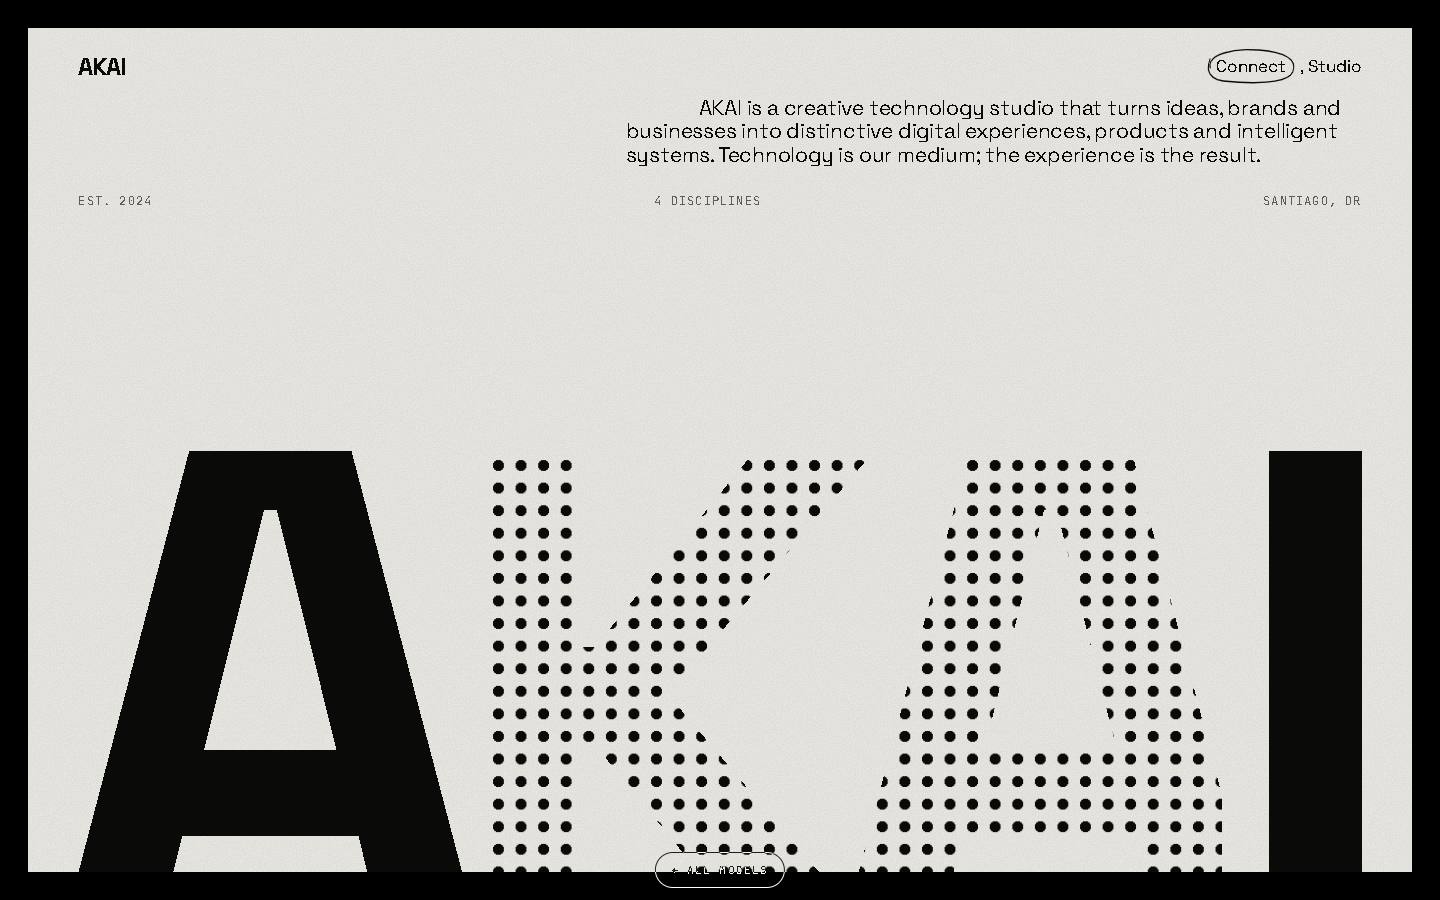
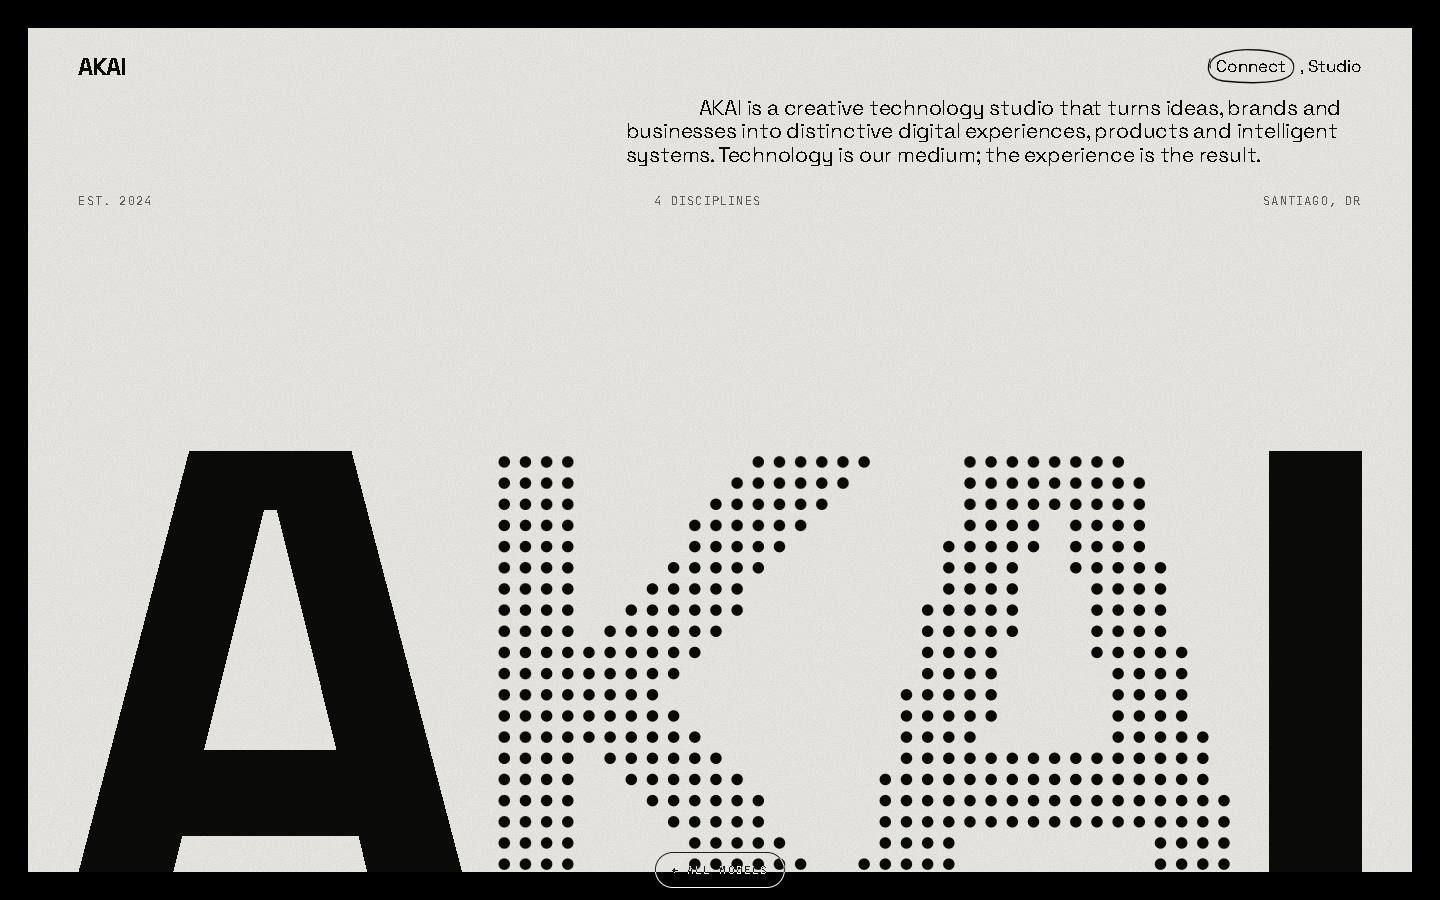
Hero model 1: dots start scattered and assemble into the K and A

Changed region(s): [[0.5938, 0.4978, 0.875, 0.9644], [0.3438, 0.4978, 0.625, 0.9644]]

diff --git a/heroes/modelo-1.html b/heroes/modelo-1.html
@@ -70,6 +70,10 @@
 
         .card:hover .dots, .card:focus-within .dots { --dot: 76%; }
 
+        /* With JS the dots become particles on a canvas; without it the CSS dot letters above remain */
+        .pixels { position: absolute; inset: 0; z-index: 2; pointer-events: none; }
+        .card.is-canvas .dots { background: none; }
+
         @media (max-width: 760px) {
             .lede { width: 100%; text-indent: 2em; }
             .stats { flex-wrap: wrap; }
@@ -99,9 +103,192 @@
                 <li>Santiago, DR</li>
             </ul>
 
-            <h1 class="word"><span class="sr-only">AKAI</span><span aria-hidden="true">A<span class="dots">KA</span>I</span></h1>
+            <h1 class="word"><span class="sr-only">AKAI</span><span aria-hidden="true">A<span class="dots" data-g="K">K</span><span class="dots" data-g="A">A</span>I</span></h1>
         </section>
     </main>
+    <script>
+        // The K and the A are made of dots. They start scattered across the page, drift for a moment,
+        // then spring into place. The pointer pushes them away and they re-form; a click shatters them again.
+        (() => {
+            const card = document.querySelector('.card');
+            const glyphs = [...card.querySelectorAll('.dots')];
+            if (!card || !glyphs.length) return;
+
+            const reduced = matchMedia('(prefers-reduced-motion: reduce)').matches;
+            const finePointer = matchMedia('(hover: hover) and (pointer: fine)').matches;
+            const INK = '#0A0A09';
+            const STIFFNESS = 0.05;
+            const DAMPING = 0.86;
+            const rnd = (a, b) => a + Math.random() * (b - a);
+
+            card.classList.add('is-canvas');
+            const canvas = document.createElement('canvas');
+            canvas.className = 'pixels';
+            canvas.setAttribute('aria-hidden', 'true');
+            card.append(canvas);
+            const ctx = canvas.getContext('2d');
+
+            let W = 0, H = 0, cell = 20;
+            let dots = [];
+            let running = false;
+            let started = 0;
+            let hover = 0, hoverGoal = 0;
+            let pointer = null;
+
+            // Dot targets come from the real letter shapes: draw each glyph where it sits in the page,
+            // then keep one dot per grid cell the glyph covers.
+            const build = (immediate) => {
+                const box = card.getBoundingClientRect();
+                W = box.width; H = box.height;
+                const dpr = Math.min(window.devicePixelRatio || 1, 2);
+                canvas.width = Math.round(W * dpr);
+                canvas.height = Math.round(H * dpr);
+                canvas.style.width = W + 'px';
+                canvas.style.height = H + 'px';
+                ctx.setTransform(dpr, 0, 0, dpr, 0, 0);
+
+                const style = getComputedStyle(glyphs[0]);
+                const size = parseFloat(style.fontSize);
+                cell = size * 0.03;
+
+                const mask = document.createElement('canvas');
+                mask.width = Math.ceil(W);
+                mask.height = Math.ceil(H);
+                const mctx = mask.getContext('2d');
+                mctx.font = `${style.fontWeight} ${size}px ${style.fontFamily}`;
+                mctx.textBaseline = 'alphabetic';
+                mctx.fillStyle = '#000';
+                const ascent = mctx.measureText('K').fontBoundingBoxAscent || size * 0.93;
+                glyphs.forEach((g) => {
+                    const r = g.getBoundingClientRect();
+                    mctx.fillText(g.dataset.g, r.left - box.left, r.top - box.top + ascent);
+                });
+                const px = mctx.getImageData(0, 0, mask.width, mask.height).data;
+
+                const targets = [];
+                for (let y = cell / 2; y < H; y += cell) {
+                    for (let x = cell / 2; x < W; x += cell) {
+                        if (px[((y | 0) * mask.width + (x | 0)) * 4 + 3] > 127) targets.push([x, y]);
+                    }
+                }
+
+                // Keep existing dots (so a resize flows instead of resetting); add or drop to match the target count
+                const next = targets.map(([tx, ty], i) => {
+                    const old = dots[i];
+                    return {
+                        x: old ? old.x : rnd(0, W),
+                        y: old ? old.y : rnd(0, H),
+                        vx: old ? old.vx : rnd(-0.6, 0.6),
+                        vy: old ? old.vy : rnd(-0.6, 0.6),
+                        tx, ty,
+                        scatter: old ? old.scatter : rnd(0.25, 0.95),
+                        delay: immediate ? 0 : 700 + rnd(0, 1200)
+                    };
+                });
+                dots = next;
+                started = performance.now();
+                kick();
+            };
+
+            const kick = () => {
+                if (running) return;
+                running = true;
+                requestAnimationFrame(tick);
+            };
+
+            const tick = (now) => {
+                const elapsed = now - started;
+                let moving = false;
+
+                hover += (hoverGoal - hover) * 0.09;
+                if (Math.abs(hoverGoal - hover) > 0.004) moving = true; else hover = hoverGoal;
+
+                ctx.clearRect(0, 0, W, H);
+                ctx.fillStyle = INK;
+                const pushRadius = cell * 6;
+                const baseR = cell * (0.27 + 0.45 * hover);
+
+                for (const d of dots) {
+                    if (elapsed < d.delay) {
+                        // Before its turn a dot just drifts, so the page reads as scattered
+                        d.vx += rnd(-0.04, 0.04);
+                        d.vy += rnd(-0.04, 0.04);
+                        d.x = Math.min(Math.max(d.x + d.vx, 0), W);
+                        d.y = Math.min(Math.max(d.y + d.vy, 0), H);
+                        moving = true;
+                    } else {
+                        let ax = (d.tx - d.x) * STIFFNESS;
+                        let ay = (d.ty - d.y) * STIFFNESS;
+                        if (pointer) {
+                            const dx = d.x - pointer.x, dy = d.y - pointer.y;
+                            const dist = Math.hypot(dx, dy);
+                            if (dist < pushRadius && dist > 0.01) {
+                                const f = Math.pow(1 - dist / pushRadius, 2) * 7;
+                                ax += (dx / dist) * f;
+                                ay += (dy / dist) * f;
+                            }
+                        }
+                        d.vx = (d.vx + ax) * DAMPING;
+                        d.vy = (d.vy + ay) * DAMPING;
+                        d.x += d.vx;
+                        d.y += d.vy;
+                        if (Math.abs(d.vx) + Math.abs(d.vy) > 0.04 || Math.abs(d.tx - d.x) + Math.abs(d.ty - d.y) > 0.25) moving = true;
+                    }
+
+                    // Dots grow from small, uneven specks to the uniform grid as they arrive
+                    const away = Math.min(1, Math.hypot(d.tx - d.x, d.ty - d.y) / (cell * 14));
+                    const r = baseR * (1 - away * (1 - d.scatter));
+                    ctx.beginPath();
+                    ctx.arc(d.x, d.y, r, 0, Math.PI * 2);
+                    ctx.fill();
+                }
+
+                if (moving) requestAnimationFrame(tick); else running = false;
+            };
+
+            const shatter = () => {
+                dots.forEach((d) => {
+                    const a = rnd(0, Math.PI * 2), s = rnd(cell * 0.6, cell * 2.2);
+                    d.vx += Math.cos(a) * s;
+                    d.vy += Math.sin(a) * s;
+                });
+                started = performance.now() - 5000;
+                kick();
+            };
+
+            const setPointer = (e) => {
+                const r = card.getBoundingClientRect();
+                pointer = { x: e.clientX - r.left, y: e.clientY - r.top };
+                kick();
+            };
+
+            if (!reduced) {
+                if (finePointer) {
+                    card.addEventListener('pointermove', setPointer);
+                    card.addEventListener('pointerenter', () => { hoverGoal = 1; kick(); });
+                    card.addEventListener('pointerleave', () => { pointer = null; hoverGoal = 0; kick(); });
+                }
+                card.addEventListener('pointerdown', (e) => { if (!e.target.closest('a')) shatter(); });
+            }
+
+            let resizeTimer;
+            addEventListener('resize', () => {
+                clearTimeout(resizeTimer);
+                resizeTimer = setTimeout(() => build(true), 150);
+            });
+
+            // Wait for the webfont so the sampled shapes match the letters on screen
+            Promise.resolve(document.fonts && document.fonts.load('700 100px "Space Grotesk"'))
+                .then(() => (document.fonts ? document.fonts.ready : null))
+                .then(() => {
+                    build(reduced);
+                    if (reduced) {
+                        dots.forEach((d) => { d.x = d.tx; d.y = d.ty; d.vx = d.vy = 0; d.scatter = 1; });
+                        kick();
+                    }
+                });
+        })();
+    </script>
     <a class="back mono" href="/heroes/">← All models</a>
 </body>
 </html>

diff --git a/heroes/index.html b/heroes/index.html
@@ -1,4 +1,4 @@
-<!DOCTYPE html>
+<!DOCTYPE html>
 <html lang="en">
 <head>
     <meta charset="UTF-8">
@@ -30,7 +30,7 @@
         <a class="card" href="/heroes/modelo-1.html">
             <div class="thumb"><img src="/heroes/thumb-1.jpg" alt="Preview of hero model 1" width="1440" height="900" loading="lazy"></div>
             <h2><span class="mono">01</span> Page and pixel</h2>
-            <p>A bone page on black with the name cropped by its edge. Two letters are dots that fill in solid on hover.</p>
+            <p>A bone page on black with the name cropped by its edge. The K and A start as scattered dots, drift, then assemble; the cursor pushes them away and a click shatters them.</p>
         </a>
         <a class="card" href="/heroes/modelo-2.html">
             <div class="thumb"><img src="/heroes/thumb-2.jpg" alt="Preview of hero model 2" width="1440" height="900" loading="lazy"></div>
